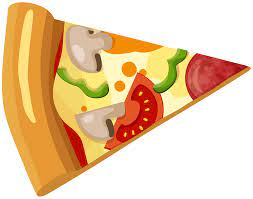
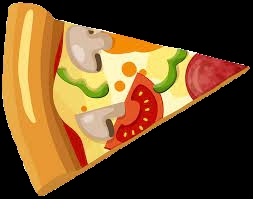
urMom

diff --git a/OrderPanel.java b/OrderPanel.java
@@ -7,18 +7,18 @@ import javax.swing.*;
 public class OrderPanel extends JPanel {
     private JButton PayButton;
 
-    private JLabel pizza_type, logo_name, toppings_label;
-    private JPanel input_panel, toppings_panel, toppings2_panel;
+    private JLabel pizzaPrompt, logo_name, toppingsPrompt;
+    private JPanel pizza2_panel, toppings_panel, toppings2_panel;
 
 	String pizzaType = "";
 	boolean toppings[] = new boolean[4];
 	double topPrice = 0;
 	double basePrice = 0;
 
-	private ButtonGroup group, tops;
+	private ButtonGroup types, tops;
     private JRadioButton pep, chs, veg;	
-    private JPanel top1_panel, top2_panel ,pizza_panel, bg;
-    private JCheckBox mush, onion , olives , exChs;
+    private JPanel top1_panel, top2_panel, pizza_panel, bg;
+    private JCheckBox mush, onion, olives, exChs;
     private ImageIcon logo;
 
     public OrderPanel(JFrame frame) {
@@ -30,57 +30,52 @@ public class OrderPanel extends JPanel {
     	PayButton.setPreferredSize(new Dimension(250, 50));
     	PayButton.setFont(new Font("Arial", Font.PLAIN, 25));
     	PayButton.addActionListener(new ButtonListener(frame));
-    	input_panel = new JPanel();
-		input_panel.setLayout(new GridLayout(10, 10, 10, 10));
+    	pizza2_panel = new JPanel();
+		pizza2_panel.setLayout(new GridLayout(10, 10, 10, 10));
 					
 		pizza_panel = new JPanel();
 		pizza_panel.setLayout(new GridLayout(1, 3));
 		
 		//Delivery Type
-		pizza_type = new JLabel(" Base Pizza Type:");
-		pizza_type.setFont(new Font("Arial", Font.BOLD, 30));
+		pizzaPrompt = new JLabel(" Base Pizza Type:");
+		pizzaPrompt.setFont(new Font("Arial", Font.BOLD, 30));
 
 		//	delivery_panel.add(delivery_type);
 		pep = new JRadioButton("Pepperoni");
 		pep.setPreferredSize(new Dimension(50, 50));
-		pep.setActionCommand(pizzaType = pickPizza("PEP"));
+		pep.setActionCommand(pizzaType = "PEP");
 		chs = new JRadioButton("Cheese");
-		chs.setActionCommand(pizzaType = pickPizza("Cheese"));
+		chs.setActionCommand(pizzaType = "Cheese");
 		veg = new JRadioButton("Veggie");
-		veg.setActionCommand(pizzaType = pickPizza("Veggie"));
-		//pizzaType = "";
-		//basePrice = 0;
+		veg.setActionCommand(pizzaType = "Veggie");
     	// text to make pizza selection
     	
     	// adding the elements
-		group = new ButtonGroup();
-		group.add(pep);
-		group.add(chs);
-		group.add(veg);
+		types = new ButtonGroup();
+		types.add(pep);
+		types.add(chs);
+		types.add(veg);
 		pizza_panel.add(pep);
 		pizza_panel.add(chs);
 		pizza_panel.add(veg);
 		pizza_panel.setAlignmentY(BOTTOM_ALIGNMENT);
 		
-		input_panel.add(pizza_type);					
-		input_panel.add(pizza_panel);		
-		add(pizza_type);
+		pizza2_panel.add(pizzaPrompt);					
+		pizza2_panel.add(pizza_panel);
+		add(pizzaPrompt);
 		add(pizza_panel);
 
 		top1_panel = new JPanel();
 		top1_panel.setLayout(new GridLayout(1, 3));
-		
 		top2_panel = new JPanel();
 		top2_panel.setLayout(new GridLayout(1, 3));
-		
 		toppings_panel = new JPanel();
 		toppings_panel.setLayout(new GridLayout(2, 1));
-		
 		toppings2_panel = new JPanel();
 		toppings2_panel.setLayout(new GridLayout(2, 1));
 		
-		toppings_label = new JLabel("Toppings:");
-		toppings_label.setFont(new Font("Arial", Font.BOLD, 25));
+		toppingsPrompt = new JLabel("Toppings:");
+		toppingsPrompt.setFont(new Font("Arial", Font.BOLD, 25));
 
 		onion = new JCheckBox("Onion", false);
 		mush = new JCheckBox("Mushroom", false);
@@ -153,30 +148,35 @@ public class OrderPanel extends JPanel {
 		top1_panel.add(mush);
 		top2_panel.add(olives);	
 		top2_panel.add(exChs);					
-	
 		toppings_panel.add(top1_panel);
 		toppings_panel.add(top2_panel);
-					
-		toppings2_panel.add(toppings_label);
+		toppings2_panel.add(toppingsPrompt);
 		toppings2_panel.add(toppings_panel);
 		add(toppings2_panel);
 	
-        logo = new ImageIcon("res/pizzaSlice.jpg");
+        logo = new ImageIcon("res/pizzaSlice.png");
     	logo_name =new JLabel(logo , 0);
     	
     	add(logo_name);
     	add(PayButton);
     }
 
-	private String pickPizza(String type){
-		if(type.equals("Cheese")){
+	private boolean pickPizza(){
+		boolean selected = false;
+		if(pep.isSelected()){
 			basePrice = 5;
-		} else if(type.equals("PEP")){
+			selected = true;
+			pizzaType = "Pepperoni";
+		} else if(chs.isSelected()){
 			basePrice = 5;
-		} else if(type.equals("Veggie")){
+			selected = true;
+			pizzaType = "Cheese";
+		} else if(veg.isSelected()){
 			basePrice = 5;
+			selected = true;
+			pizzaType = "Veggie";
 		}
-		return type;
+		return selected;
 	}
 
     public class ButtonListener implements ActionListener {
@@ -190,25 +190,24 @@ public class OrderPanel extends JPanel {
         public void actionPerformed(ActionEvent event) {
         	// remove the elements
 			double total = basePrice + topPrice;
+			boolean selected = pickPizza();
 
-			if(!pizzaType.equals("")){
+			if(selected){
 				System.out.println(pizzaType);
 				Pizza newZA = new Pizza(pizzaType, toppings, total);
 
         		remove(PayButton);
         		remove(pizza_panel);
         		remove(toppings2_panel);
-        		remove(pizza_type);
+        		remove(pizzaPrompt);
         		remove(toppings2_panel);
         		remove(logo_name);
 
         		// transition to payment screen
         		MainGui.showPaymentPanel(frame, newZA);
 			} else {
-				pizza_type.setText("Must Select Base Pizza: ");
+				pizzaPrompt.setText("Must Select Base Pizza: ");
 			}
-        	
         }
-    }
-
+	}
 }

diff --git a/progressGUI.java b/progressGUI.java
@@ -30,8 +30,6 @@ public class progressGUI extends JPanel{
     	ReturnHome = new JButton(" Return to home ");
     	ReturnHome.addActionListener(new ButtonListener(frame));
 
-    	
-    	   
         // progress bar
     	progressBAR=new JProgressBar(0,5);    
     	progressBAR.setBounds(40,40,160,30);         
@@ -60,12 +58,9 @@ public class progressGUI extends JPanel{
         add(progressBAR);
 		//add(timeReady);
 		add(emailReceipt);
-     
-      
     }
 	public void updateProgress(int newProgress){
     	progressBAR.setValue(newProgress);
-    	
     }
     public class ButtonListener implements ActionListener {
     	private JFrame frame;

diff --git a/MainGui.java b/MainGui.java
@@ -10,6 +10,7 @@ public class MainGui {
         frame.setDefaultCloseOperation(JFrame.EXIT_ON_CLOSE);
         frame.setPreferredSize(new Dimension(1080, 720));
         frame.setBackground(Color.RED);
+        frame.setResizable(false);
        
         // make the initial call to show the home screen
         showHomePanel(frame);

diff --git a/PaymentPanel.java b/PaymentPanel.java
@@ -15,7 +15,7 @@ public class PaymentPanel extends JPanel {
     private JButton submitButton;
     private JLabel cost, costPrompt;
     private JLabel IDPrompt, namePrompt, emailPrompt, CHECK;
-    private JTextArea IDArea, nameArea, emailArea ;
+    private JTextArea IDArea, nameArea, emailArea;
 	
     Pizza p;
 
